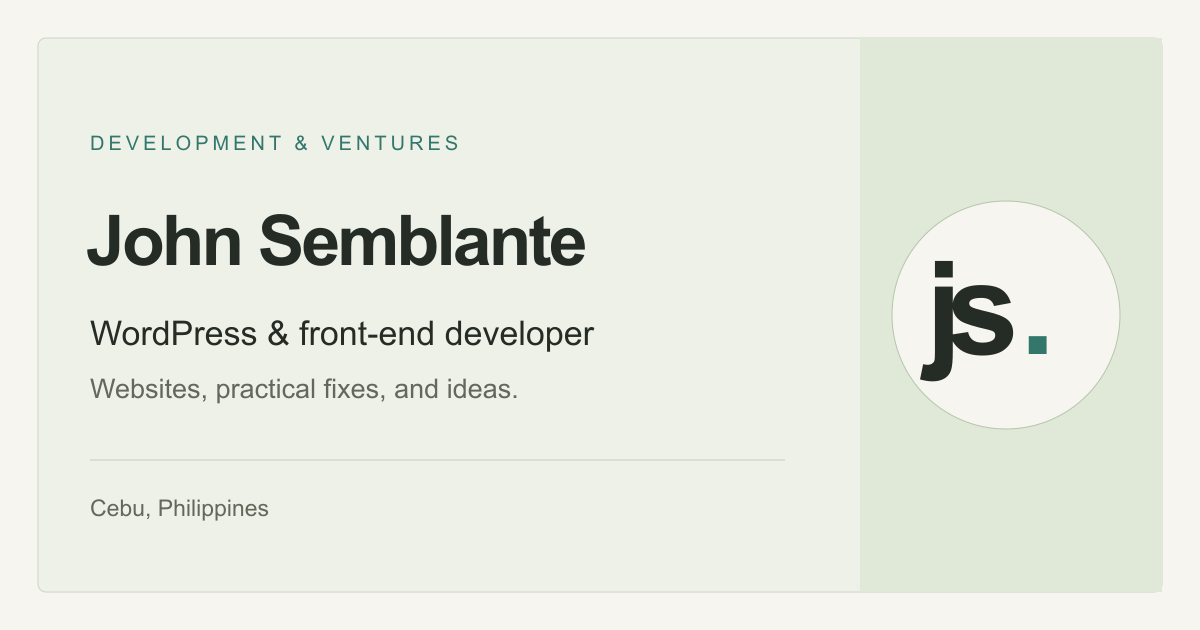
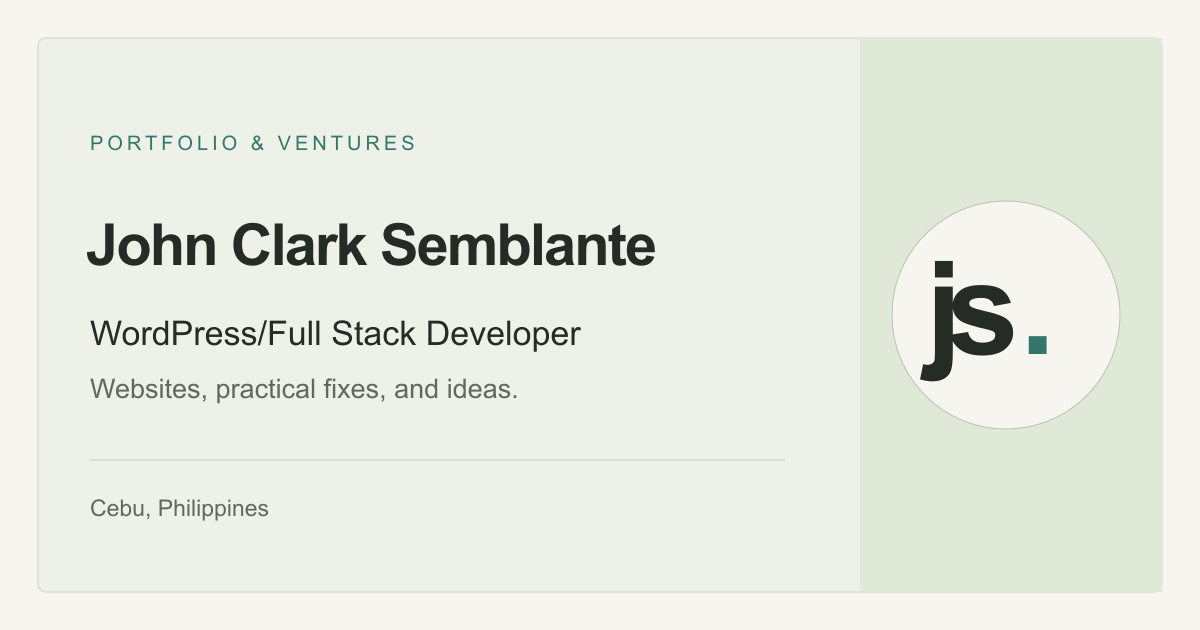
Unify developer branding and improve article sharing and SEO

Changed region(s): [[0.0617, 0.3317, 0.555, 0.4222], [0.2158, 0.5127, 0.4933, 0.573], [0.0617, 0.2111, 0.4008, 0.2413]]

diff --git a/src/app/(portfolio)/work/page.tsx b/src/app/(portfolio)/work/page.tsx
@@ -5,13 +5,15 @@ import { PageIntro, Button } from "@/components/ui";
 import { ProjectExplorer } from "@/components/project-explorer";
 import { BrowserIllustration } from "@/components/browser-illustration";
 import { Workflow } from "@/components/workflow";
+import { profile } from "@/content/profile";
 import { pageMetadata } from "@/lib/metadata";
-export const metadata = pageMetadata("WordPress & Front-end Portfolio", "Explore John Semblante's WordPress and front-end portfolio by industry, including healthcare, professional services and independent ventures.", "/work/");
+const workTitle = `${profile.fullName} | WordPress Portfolio & Projects`;
+export const metadata = { ...pageMetadata(workTitle, `Explore ${profile.fullName}'s WordPress portfolio: client websites, UI implementation and personal ventures. Browse projects by industry and technology.`, "/work/"), title: { absolute: workTitle } };
 export default function Work() {
   const featured = projects[0];
   const heroProjects = ["roar-fitness", "perth-cosmetic-surgery"].flatMap(slug => {
     const project = projects.find(item => item.slug === slug);
     return project?.image ? [{ src: project.image.src, name: project.title, width: 516, height: 337 }] : [];
   });
-  return <><div className="route-hero"><PageIntro eyebrow="Portfolio / Web development" title="Selected work."><p>Selected public projects from my portfolio. Explore the websites, then let’s talk about the development support your project needs.</p><div className="actions"><Button href="/contact/">Discuss your project</Button><Button href="#projects" secondary>Browse by industry</Button></div></PageIntro><BrowserIllustration showcase={{ kind: "work", label: "FROM THE PUBLIC COLLECTION", caption: "Real projects. Thoughtful design, brought to life.", images: heroProjects }} /></div><ExperienceSpotlight /><section className="section" id="projects">{projects.length ? <><div className="section-heading"><div><p className="eyebrow">The public collection</p><h2>Websites I’ve worked on.</h2></div></div><p className="body-copy">Explore historical WordPress and front-end projects alongside my independent ventures. Filter by industry and technology to find relevant examples. Historical screenshots show the versions in my portfolio; live sites may have changed since then.</p><ProjectExplorer projects={projects} /></> : <div className="empty-state"><p className="eyebrow">Project collection</p><h2>Looking for relevant experience?</h2><p>Tell me what you are building and I can discuss the experience relevant to your project.</p></div>}</section>{featured && <section className="section featured-case"><div><p className="eyebrow">From the project collection</p><h2>{featured.title}</h2><p className="lede">{featured.summary}</p><Button href={`/work/${featured.slug}/`} secondary>Explore the project</Button></div><dl><div><dt>Work category</dt><dd>{featured.role}</dd></div><div><dt>Technology</dt><dd>{featured.technologies.join(" · ")}</dd></div>{featured.outcome && <div><dt>Outcome</dt><dd>{featured.outcome}</dd></div>}</dl></section>}<Workflow /><section className="contact-band"><div><p className="eyebrow">A new conversation</p><h2>Let’s talk about your idea.</h2></div><Link className="button" href="/contact/">Discuss your project ↗</Link></section></>;
+  return <><div className="route-hero"><PageIntro eyebrow={`${profile.fullName} / Selected work`} title="WordPress portfolio & projects."><p>Explore my work as a {profile.title} through selected client websites and personal ventures. Browse the projects, then let’s talk about the development support your project needs.</p><div className="actions"><Button href="/contact/">Discuss your project</Button><Button href="#projects" secondary>Browse by industry</Button></div></PageIntro><BrowserIllustration showcase={{ kind: "work", label: "FROM THE PUBLIC COLLECTION", caption: "Real projects. Thoughtful design, brought to life.", images: heroProjects }} /></div><ExperienceSpotlight /><section className="section" id="projects">{projects.length ? <><div className="section-heading"><div><p className="eyebrow">The public collection</p><h2>Websites I’ve worked on.</h2></div></div><p className="body-copy">Explore historical WordPress and front-end projects alongside my independent ventures. Filter by industry and technology to find relevant examples. Historical screenshots show the versions in my portfolio; live sites may have changed since then.</p><ProjectExplorer projects={projects} /></> : <div className="empty-state"><p className="eyebrow">Project collection</p><h2>Looking for relevant experience?</h2><p>Tell me what you are building and I can discuss the experience relevant to your project.</p></div>}</section>{featured && <section className="section featured-case"><div><p className="eyebrow">From the project collection</p><h2>{featured.title}</h2><p className="lede">{featured.summary}</p><Button href={`/work/${featured.slug}/`} secondary>Explore the project</Button></div><dl><div><dt>Work category</dt><dd>{featured.role}</dd></div><div><dt>Technology</dt><dd>{featured.technologies.join(" · ")}</dd></div>{featured.outcome && <div><dt>Outcome</dt><dd>{featured.outcome}</dd></div>}</dl></section>}<Workflow /><section className="contact-band"><div><p className="eyebrow">A new conversation</p><h2>Let’s talk about your idea.</h2></div><Link className="button" href="/contact/">Discuss your project ↗</Link></section></>;
 }

diff --git a/src/components/admin/admin-blog.tsx b/src/components/admin/admin-blog.tsx
@@ -12,14 +12,16 @@ import { BlogFeaturedImage } from "@/components/blog-featured-image";
 import { ArticleEditor } from "./article-editor";
 import { BlogEditorDrawer } from "./blog-editor-drawer";
 import { TokenInput } from "./token-input";
+import { ArticleShareLink } from "@/components/article-share-link";
+import { site } from "@/content/site";
 
 const dateLabel = (value: string) => new Intl.DateTimeFormat("en-PH", { dateStyle: "medium", timeStyle: "short", timeZone: "Asia/Manila" }).format(new Date(value));
 
-export function AdminBlog({ reservedSlugs = [] }: { reservedSlugs?: string[] }) {
-  return <BlogEditor reservedSlugs={reservedSlugs} />;
+export function AdminBlog({ reservedSlugs = [], exportedSlugs = [] }: { reservedSlugs?: string[]; exportedSlugs?: string[] }) {
+  return <BlogEditor reservedSlugs={reservedSlugs} exportedSlugs={exportedSlugs} />;
 }
 
-function BlogEditor({ reservedSlugs }: { reservedSlugs: string[] }) {
+function BlogEditor({ reservedSlugs, exportedSlugs }: { reservedSlugs: string[]; exportedSlugs: string[] }) {
   const { db } = useAdmin();
   const [editorOpen, setEditorOpen] = useState(false);
   const [posts, setPosts] = useState<ManagedPost[]>([]);
@@ -186,7 +188,10 @@ function BlogEditor({ reservedSlugs }: { reservedSlugs: string[] }) {
           {input.status === "scheduled" && saved && effectiveStatus(saved, clock) === "published" && <p className="form-note">This schedule has already reached its publication time. Select Published to save edits without rescheduling, or choose a new future date.</p>}
           <fieldset className="seo-fields"><legend>SEO metadata</legend><label htmlFor="post-seo-title">Meta title (optional)</label><input id="post-seo-title" value={input.seoTitle} maxLength={160} placeholder={input.title || "Uses the post title"} onChange={e => field("seoTitle", e.target.value)} /><label htmlFor="post-seo-description">Meta description (optional)</label><textarea id="post-seo-description" value={input.seoDescription} maxLength={500} rows={3} placeholder={input.excerpt || "Uses the short introduction"} onChange={e => field("seoDescription", e.target.value)} /><p className="form-note">Blank fields use the title and short introduction. Preview: <strong>{seo.title || "Post title"}</strong> — {seo.description || "Short introduction"}</p></fieldset>
           <button type="submit" className="button">{input.status === "scheduled" ? "Save schedule" : input.status === "published" ? "Save and publish" : "Save draft"}</button>
-          {saved && effectiveStatus(saved, clock) === "published" && <Link className="text-link" href={`/blog/?post=${encodeURIComponent(saved.slug)}`} target="_blank" rel="noopener noreferrer">View published post ↗</Link>}
+          {saved && effectiveStatus(saved, clock) === "published" && <div className="admin-post-sharing">
+            {exportedSlugs.includes(saved.slug) ? <><Link className="text-link" href={`/blog/${saved.slug}/`} target="_blank" rel="noopener noreferrer">View published post ↗</Link><ArticleShareLink url={`${site.url}/blog/${saved.slug}/`} /><p className="form-note">Use the copied article URL for social previews. Rebuild and deploy after edits to update its title, image and content.</p></> : <p className="form-note">Rebuild and deploy to create this article’s shareable page with its own preview title and image.</p>}
+            <Link className="text-link" href={`/blog/?post=${encodeURIComponent(saved.slug)}`} target="_blank" rel="noopener noreferrer">View latest database version ↗</Link>
+          </div>}
         </fieldset></form>
         {saved && <button type="button" className="delete-article" disabled={busy} onClick={remove}>Delete article</button>}
         <details className="admin-preview"><summary>Preview article</summary><article><BlogFeaturedImage src={input.featuredImage} alt={input.featuredImageAlt || input.title} /><p className="eyebrow">{input.categories.join(" · ")}</p><h2>{input.title || "Untitled article"}</h2><p className="lede">{input.excerpt}</p><BlogArticleContent content={input.content} /><ul className="article-tags tags" aria-label="Tags">{input.tags.map(tag => <li key={tag}>{tag}</li>)}</ul></article></details>

diff --git a/src/content/profile.ts b/src/content/profile.ts
@@ -1,19 +1,20 @@
 // Updated résumé takes precedence over the historical portfolio (2026-10-29).
+export const professionalTitle = "WordPress/Full Stack Developer";
 export const profile = {
   fullName: "John Clark Semblante",
   location: "Mandaue City, Cebu, Philippines",
-  title: "Full Stack Developer",
-  headline: "Full Stack Developer",
+  title: professionalTitle,
+  headline: professionalTitle,
   homeSummary: "I help businesses and teams build custom WordPress websites, improve WooCommerce stores, and fix front-end problems. Over 10 years of experience, with a focus on responsive interfaces, performance, and maintainable code.",
   resumePortrait: "/images/profile/john-resume.jpg",
   portrait: "/images/profile/john-enhanced.webp",
-  introduction: "I’m John, a senior front-end and WordPress developer based in Cebu, Philippines. I bring over 10 years of experience building and improving websites across SaaS, ecommerce, and enterprise environments.",
+  introduction: `I’m John Clark Semblante, a ${professionalTitle} based in Cebu, Philippines. I bring over 10 years of experience building and improving websites across SaaS, ecommerce, and enterprise environments.`,
   biography: "My work connects design with the details that make a website usable: responsive layouts, clear interactions, and reliable functionality. I turn Figma designs into WordPress and WooCommerce websites using PHP, JavaScript, and CSS, and help resolve the technical issues that get in the way of a good customer experience.",
   skills: ["WordPress", "WooCommerce", "Figma to WordPress", "Responsive web design", "Cross-browser and mobile optimization", "Core Web Vitals", "On-page SEO", "UI debugging", "Third-party APIs and plugins", "ActiveCampaign", "GetResponse", "Zendesk", "PrestaShop"],
   languages: ["HTML5", "CSS3", "JavaScript", "PHP", "Tailwind CSS", "Bootstrap"],
   tools: ["Git", "Docker", "Playwright", "Figma MCP", "Cursor", "Claude AI workflows"],
   experience: [
-    { company: "Link365 by CreateIT", role: "Full Stack Developer", dates: "October 2021 – Present", responsibilities: ["Develop and maintain custom WordPress and WooCommerce websites from Figma designs.", "Investigate technical bugs, fix cross-browser interface issues, and address website performance bottlenecks.", "Use Cursor, Claude, and Docker to support development, debugging, and code review workflows."] },
+    { company: "Link365 by CreateIT", role: professionalTitle, dates: "October 2021 – Present", responsibilities: ["Develop and maintain custom WordPress and WooCommerce websites from Figma designs.", "Investigate technical bugs, fix cross-browser interface issues, and address website performance bottlenecks.", "Use Cursor, Claude, and Docker to support development, debugging, and code review workflows."] },
     { company: "LegalMatch PH", role: "Front End Developer", dates: "March 2019 – September 2021", responsibilities: ["Engineered responsive front-end layouts and custom WordPress themes for high-traffic enterprise legal tech platforms.", "Translated UI/UX designs into reusable front-end components with attention to accessibility and responsive behavior.", "Maintained core website functionality, supported security requirements, and integrated third-party APIs and plugins."] },
     { company: "Titan Digital", role: "WordPress Developer", dates: "May 2017 – February 2019", responsibilities: ["Built custom, responsive WordPress websites from design files.", "Resolved client support issues through technical fixes and theme and plugin customizations."] },
     { company: "Supporting Enterprise – Odusee", role: "Web Developer", dates: "February 2016 – May 2017", responsibilities: ["Developed and managed client WordPress platforms, improving overall site performance, navigation, and mobile responsiveness."] },

diff --git a/src/app/(portfolio)/page.tsx b/src/app/(portfolio)/page.tsx
@@ -12,13 +12,14 @@ import { websiteSchema, jsonLd } from "@/lib/seo";
 import { pageMetadata } from "@/lib/metadata";
 import { site } from "@/content/site";
 
-export const metadata = pageMetadata("WordPress & Front-end Developer in Cebu", site.description, "/");
+const homeTitle = `${profile.fullName} | ${profile.title}`;
+export const metadata = { ...pageMetadata(homeTitle, site.description, "/"), title: { absolute: homeTitle } };
 
 export default function Home() {
   const writing = publishedPosts().slice(0, 2);
   return <>
     <script type="application/ld+json" dangerouslySetInnerHTML={{ __html: jsonLd(websiteSchema()) }} />
-    <section className="hero mockup-hero"><div><p className="eyebrow">John Semblante / Full Stack Developer</p><h1>Your website.<br />Built for<br /><span className="hero-muted">what’s next.</span></h1><p className="lede">{profile.homeSummary}</p><div className="actions"><Button href="/contact/">Discuss your project</Button><Button href="/work/" secondary>Explore my work</Button></div></div><BrowserIllustration portrait={{ src: profile.portrait, name: "John Semblante" }} /></section>
+    <section className="hero mockup-hero"><div><p className="eyebrow">Developer portfolio / Cebu, Philippines</p><h1>{profile.fullName}</h1><p className="hero-specialty">{profile.title}</p><p className="lede">{profile.homeSummary}</p><div className="actions"><Button href="/contact/">Discuss your project</Button><Button href="/work/" secondary>View my portfolio</Button></div></div><BrowserIllustration portrait={{ src: profile.portrait, name: profile.fullName }} /></section>
     <div className="portfolio-strip" aria-label="Portfolio focus"><div><span className="strip-symbol" aria-hidden="true">&lt;/&gt;</span><p><strong>From design to website</strong><span>Custom WordPress development from your Figma designs.</span></p></div><div><span className="strip-symbol" aria-hidden="true">↗</span><p><strong>Better on every screen</strong><span>Responsive layouts and cross-browser improvements.</span></p></div><div><span className="strip-symbol" aria-hidden="true">✎</span><p><strong>Support for the details</strong><span>UI fixes, integrations, and performance improvements.</span></p></div></div>
     <DevelopmentServices /><section className="section"><div className="section-heading"><div><p className="eyebrow">The portfolio</p><h2>Selected public projects.</h2></div><Link className="text-link" href="/work/">View all work <Arrow /></Link></div>{projects.length ? <ProjectGrid projects={projects.slice(0, 3)} /> : <div className="work-pending"><span className="work-pending-mark" aria-hidden="true">&lt;/&gt;</span><div><h3>Project stories are taking shape.</h3><p>Verified projects, screenshots, and case studies will be shared here soon.</p></div></div>}</section>
     <section className="section"><div className="section-heading"><div><p className="eyebrow">Beyond the screen</p><h2>Independent ventures.</h2></div><Link className="text-link" href="/ventures/">View all ventures <Arrow /></Link></div><VentureCards compact /><p className="section-note">Take a coffee break with Lazy Barista or plan your Cebu trip with Golden Travel and Tours.</p></section>

diff --git a/src/app/(portfolio)/contact/page.tsx b/src/app/(portfolio)/contact/page.tsx
@@ -3,7 +3,8 @@ import { profile, socialAccounts } from "@/content/profile";
 import { PageIntro } from "@/components/ui";
 import { InquiryForm } from "@/components/inquiry-form";
 import { pageMetadata } from "@/lib/metadata";
-export const metadata = pageMetadata("Contact", "Discuss WordPress development, WooCommerce, website fixes, or a career opportunity with John Semblante. Share your goals and project requirements.", "/contact/");
+const contactTitle = `${profile.fullName} | Contact`;
+export const metadata = { ...pageMetadata(contactTitle, `Contact ${profile.fullName} for WordPress development, WooCommerce, website fixes or remote developer opportunities in Cebu and worldwide.`, "/contact/"), title: { absolute: contactTitle } };
 export default function Contact() {
   return <><PageIntro eyebrow="Contact / Let’s connect" title="Let’s talk about your website."><p>Need a custom build, help with your store, or a fix for an existing site? Share what you need and where you want to take it. Career opportunities and collaborations are welcome too.</p></PageIntro><section className="section contact-layout"><InquiryForm /><aside className="contact-sidebar"><p className="eyebrow">Find me here</p><h2>A direct line.</h2><dl><div><dt>Email</dt><dd><a href={`mailto:${site.email}`}>{site.email}</a></dd></div><div><dt>Phone</dt><dd><a href={`tel:${site.phone}`}>{site.phoneDisplay}</a></dd></div><div><dt>Based in</dt><dd>{profile.location}</dd></div></dl><h3>Elsewhere online.</h3><ul className="social-links">{socialAccounts.map(account => <li key={account.name}><a href={account.url} target="_blank" rel="noopener noreferrer"><span>{account.name}<small>{account.handle}</small></span><span aria-hidden="true">↗</span></a></li>)}</ul></aside></section></>;
 }

diff --git a/src/lib/seo.ts b/src/lib/seo.ts
@@ -1,15 +1,16 @@
 import { site } from "@/content/site";
+import { profile, socialAccounts } from "@/content/profile";
 
 export function jsonLd(value: unknown): string { return JSON.stringify(value).replace(/</g, "\\u003c"); }
 export function articleSchema(post: { title: string; description: string; publishedAt: string; url: string; image?: string; tags?: string[]; categories?: string[] }) {
   return { "@context": "https://schema.org", "@type": "BlogPosting", headline: post.title, description: post.description,
     image: [new URL(post.image || site.socialImage, site.url).href], datePublished: post.publishedAt,
-    author: { "@type": "Person", "@id": `${site.url}/#person`, name: site.name, url: `${site.url}/about/` },
+    author: { "@type": "Person", "@id": `${site.url}/#person`, name: profile.fullName, alternateName: site.name, url: `${site.url}/about/` },
     mainEntityOfPage: post.url, ...(post.tags?.length ? { keywords: post.tags.join(", ") } : {}), ...(post.categories?.length ? { articleSection: post.categories } : {}) };
 }
 export function websiteSchema() {
   return { "@context": "https://schema.org", "@graph": [
     { "@type": "WebSite", "@id": `${site.url}/#website`, url: `${site.url}/`, name: site.name, description: site.description, publisher: { "@id": `${site.url}/#person` } },
-    { "@type": "Person", "@id": `${site.url}/#person`, name: site.name, url: `${site.url}/about/`, jobTitle: "WordPress and front-end developer" },
+    { "@type": "Person", "@id": `${site.url}/#person`, name: profile.fullName, alternateName: site.name, url: `${site.url}/about/`, jobTitle: profile.title, image: `${site.url}${profile.portrait}`, sameAs: socialAccounts.map(account => account.url) },
   ] };
 }

diff --git a/src/components/managed-blog.tsx b/src/components/managed-blog.tsx
@@ -10,6 +10,8 @@ import { BlogArticleContent } from "./blog-article-content";
 import { BlogPostMetadata } from "./blog-post-metadata";
 import { BlogCard } from "./blog-card";
 import { BlogFeaturedImage } from "./blog-featured-image";
+import { ArticleShareLink } from "./article-share-link";
+import { site } from "@/content/site";
 import { PageIntro } from "./ui";
 
 const dateLabel = (date: string) => new Intl.DateTimeFormat("en-PH", { dateStyle: "long", timeStyle: "short", timeZone: "Asia/Manila" }).format(new Date(date));
@@ -109,6 +111,7 @@ export function ManagedBlog({ children, hasStaticPosts, initialPosts = [] }: { c
     {loading && <p role="status">Loading article…</p>}
     {error && <><h1>Article unavailable</h1><p role="status">{error}</p></>}
     {article && <><BlogPostMetadata post={article} canonicalPath={staticSlugs.includes(article.slug) ? `/blog/${article.slug}/` : undefined} /><header><Labels post={article} /><h1>{article.title}</h1><p className="lede">{article.excerpt}</p><div className="blog-meta"><span>John Semblante</span><time dateTime={article.publishedAt}>{dateLabel(article.publishedAt)} (Cebu)</time></div></header>{article.featuredImage && <BlogFeaturedImage src={article.featuredImage} alt={article.featuredImageAlt || article.title} />}<BlogArticleContent content={article.content} /></>}
+    {article && staticSlugs.includes(article.slug) && <footer><ArticleShareLink url={`${site.url}/blog/${article.slug}/`} /><p className="form-note">Use this article link for its own social preview title and image.</p></footer>}
   </article>;
   return <>
     {hasStaticPosts || (!firebaseConfigured && !initialPosts.length) ? children : <BlogIntro />}

diff --git a/src/app/(portfolio)/about/page.tsx b/src/app/(portfolio)/about/page.tsx
@@ -3,7 +3,8 @@ import { profile } from "@/content/profile";
 import { site } from "@/content/site";
 import { PageIntro, Button } from "@/components/ui";
 import { pageMetadata } from "@/lib/metadata";
-export const metadata = pageMetadata("About", "Meet John Clark Semblante, a senior front-end and WordPress developer based in Mandaue City, Cebu.", "/about/");
+const aboutTitle = `${profile.fullName} | About & Experience`;
+export const metadata = { ...pageMetadata(aboutTitle, `Meet ${profile.fullName}, a ${profile.title} in Cebu, Philippines. Explore my skills, career experience and website development work.`, "/about/"), title: { absolute: aboutTitle } };
 export default function About() {
   return <><div className="about-intro"><PageIntro eyebrow={`${profile.title} / ${profile.location}`} title="A developer who cares about the details."><p>{profile.introduction}</p><div className="actions"><Button href="/work/">Explore my work</Button><Button href="/contact/" secondary>Discuss your project</Button></div></PageIntro><img className="profile-portrait" src={profile.portrait} alt="John Clark Semblante, web developer based in Cebu" width={1103} height={1426} /></div>
     <section className="section two-columns"><h2>Design to code.<br />Ideas to experiences.</h2><div><p className="lede">{profile.biography}</p><p className="body-copy">Running Lazy Barista and Golden Travel and Tours also gives me a business owner’s perspective: customers need clear information and an easy way to take the next step. I bring that same focus to my development work.</p><Button href="/ventures/" secondary>Meet the ventures</Button></div></section>

diff --git a/src/components/browser-illustration.tsx b/src/components/browser-illustration.tsx
@@ -1,3 +1,5 @@
+import { profile } from "@/content/profile";
+
 type Portrait = { src: string; name: string };
 type Showcase = {
   kind: "work" | "ventures"; label: string; caption: string;
@@ -17,7 +19,7 @@ export function BrowserIllustration({ portrait, showcase }: { portrait?: Portrai
         <div className="study-canvas">
           <div className="study-label">{portrait ? "THE PERSON BEHIND THE PIXELS" : showcase?.label ?? "IDEA → EXPERIENCE"}</div>
           {portrait ? <div className="study-introduction">
-            <div className="study-person-copy"><span>Hello, I’m</span><strong>{portrait.name}</strong><span className="study-person-role">Full Stack Developer</span><div className="study-button" /></div>
+            <div className="study-person-copy"><span>Hello, I’m</span><strong>{portrait.name}</strong><span className="study-person-role">{profile.title}</span><div className="study-button" /></div>
             <div className="study-portrait-frame"><img src={portrait.src} alt="" width={1103} height={1426} /></div>
           </div> : showcase ? <div className="study-showcase">{showcase.images.map(asset => <div className="study-showcase-card" key={asset.src}><div className="study-showcase-image"><img src={asset.src} alt="" width={asset.width} height={asset.height} /></div><span>{asset.name}</span></div>)}</div> : <><div className="study-headline" /><div className="study-headline short" /><div className="study-line" /><div className="study-line short" /><div className="study-button" /></>}
           <div className="study-tiles"><span /><span /><span /></div>

diff --git a/src/app/globals.css b/src/app/globals.css
@@ -272,3 +272,7 @@ body,button,input,select,textarea,h1,h2,h3,h4,h5,h6,.serif,.venture-name,.vehicl
 .article-tags.tags li{padding:4px 8px;background:#e7efec;border:0;border-radius:0;font-size:10px;font-weight:400;line-height:1.5}
 .blog-card-content>.text-link{padding-top:8px}
 @media(max-width:700px){.blog-preview,.blog-preview:first-child{grid-template-columns:minmax(0,1fr)}.blog-image-link .blog-featured-image{aspect-ratio:16/9;height:auto;min-height:0}.blog-card-content{padding:24px}}
+
+.article-share-link{display:flex;flex-wrap:wrap;align-items:center;gap:12px;margin-bottom:22px}.article-share-link button{font:inherit;cursor:pointer}.article-share-link [role=status]{font-size:12px;color:var(--muted)}.article-share-link input{width:100%;min-width:0;padding:10px;border:1px solid var(--line);font:inherit;font-size:13px;background:white;color:var(--ink)}.admin-post-sharing{margin-top:24px}.admin-post-sharing>.text-link{display:inline-block;margin:0 0 18px}.admin-post-sharing .article-share-link{margin-bottom:12px}
+
+.hero-specialty{font-size:clamp(20px,2.3vw,28px);line-height:1.4;letter-spacing:-.025em;color:#32766c;margin:22px 0}

diff --git a/src/components/published-blog-article.tsx b/src/components/published-blog-article.tsx
@@ -4,6 +4,7 @@ import { postMetadata, type ManagedPost } from "@/lib/blog-model";
 import { articleSchema, jsonLd } from "@/lib/seo";
 import { BlogArticleContent } from "./blog-article-content";
 import { BlogFeaturedImage } from "./blog-featured-image";
+import { ArticleShareLink } from "./article-share-link";
 
 export function PublishedBlogArticle({ post }: { post: ManagedPost }) {
   const metadata = postMetadata(post);
@@ -15,6 +16,6 @@ export function PublishedBlogArticle({ post }: { post: ManagedPost }) {
     {post.featuredImage && <BlogFeaturedImage src={post.featuredImage} alt={post.featuredImageAlt || post.title} />}
     <BlogArticleContent content={post.content} />
     {post.tags.length > 0 && <ul className="article-tags tags" aria-label="Tags">{post.tags.map(tag => <li key={tag}>{tag}</li>)}</ul>}
-    <footer><Link className="text-link" href="/blog/">← Back to the blog</Link></footer>
+    <footer><ArticleShareLink url={`${site.url}/blog/${post.slug}/`} /><Link className="text-link" href="/blog/">← Back to the blog</Link></footer>
   </article>;
 }

diff --git a/src/components/development-services.tsx b/src/components/development-services.tsx
@@ -10,6 +10,6 @@ export function DevelopmentServices() {
   return <section className="section" aria-labelledby="services-title">
     <div className="section-heading"><div><p className="eyebrow">How I can help</p><h2 id="services-title">Build it. Improve it. Keep it working.</h2></div></div>
     <div className="service-copy-grid">{services.map(([title, description, scope]) => <article key={title}><h3>{title}</h3><p>{description}</p><p className="service-scope">{scope}</p></article>)}</div>
-    <p className="service-copy-cta">For business owners and teams who need hands-on development support. <Link className="text-link" href="/contact/">Tell me what you need <span aria-hidden="true">↗</span></Link></p>
+    <p className="service-copy-cta">Looking for a WordPress developer in Cebu, Philippines? I work with businesses and remote teams on custom websites, WooCommerce and ongoing improvements. <Link className="text-link" href="/contact/">Tell me what you need <span aria-hidden="true">↗</span></Link></p>
   </section>;
 }
